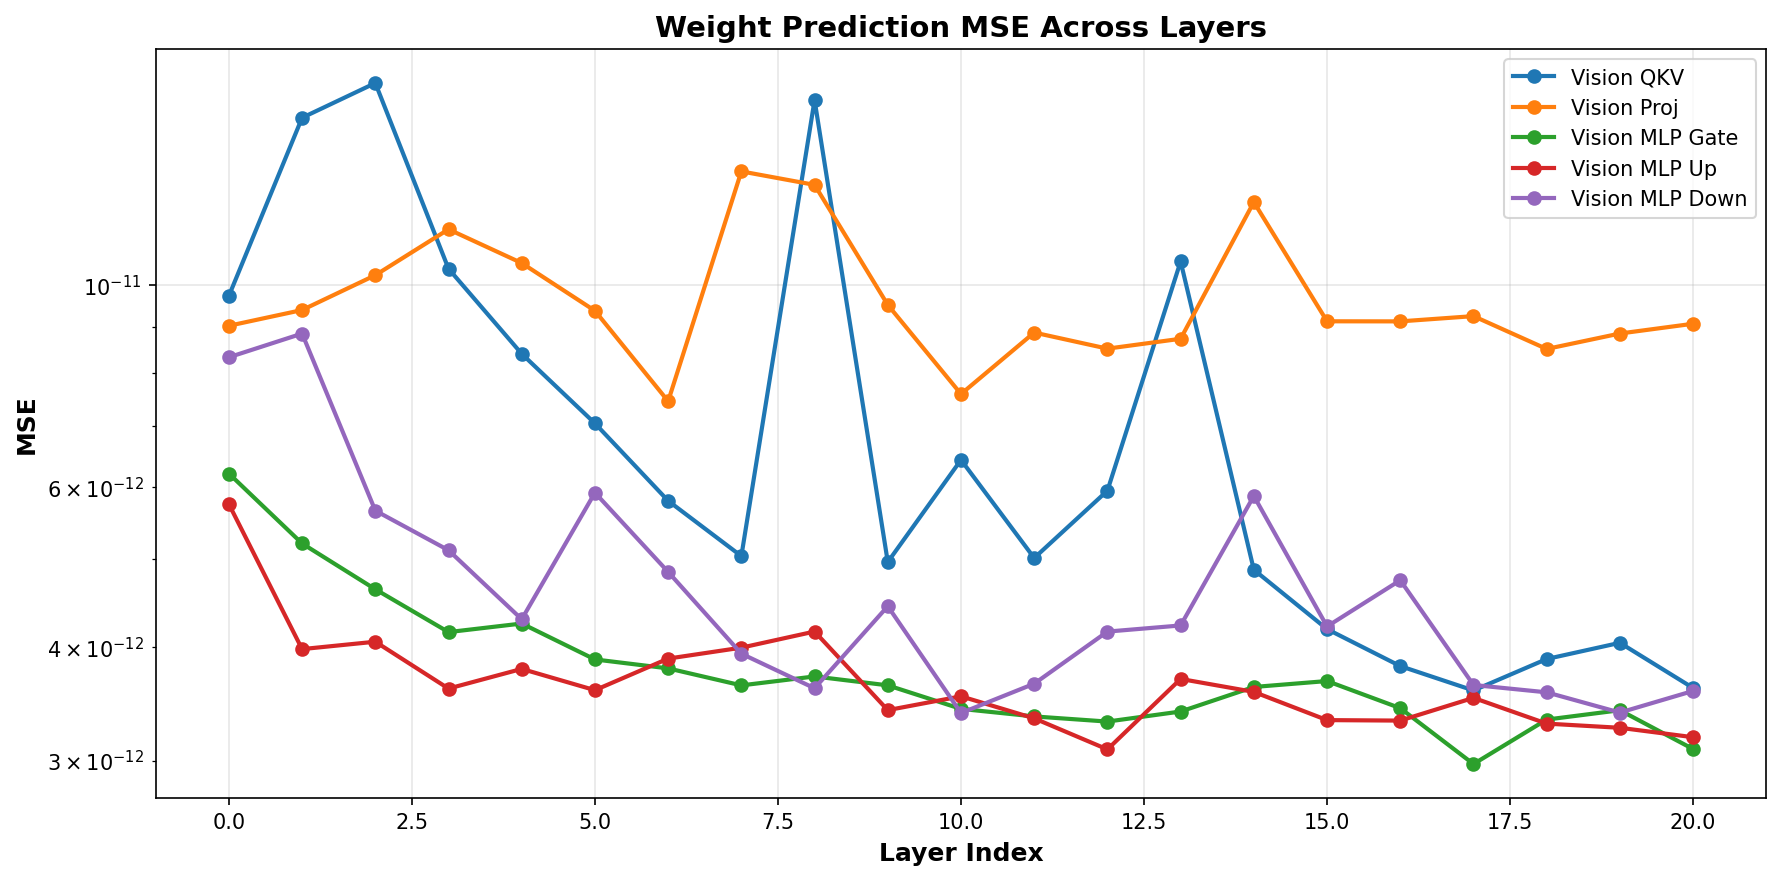
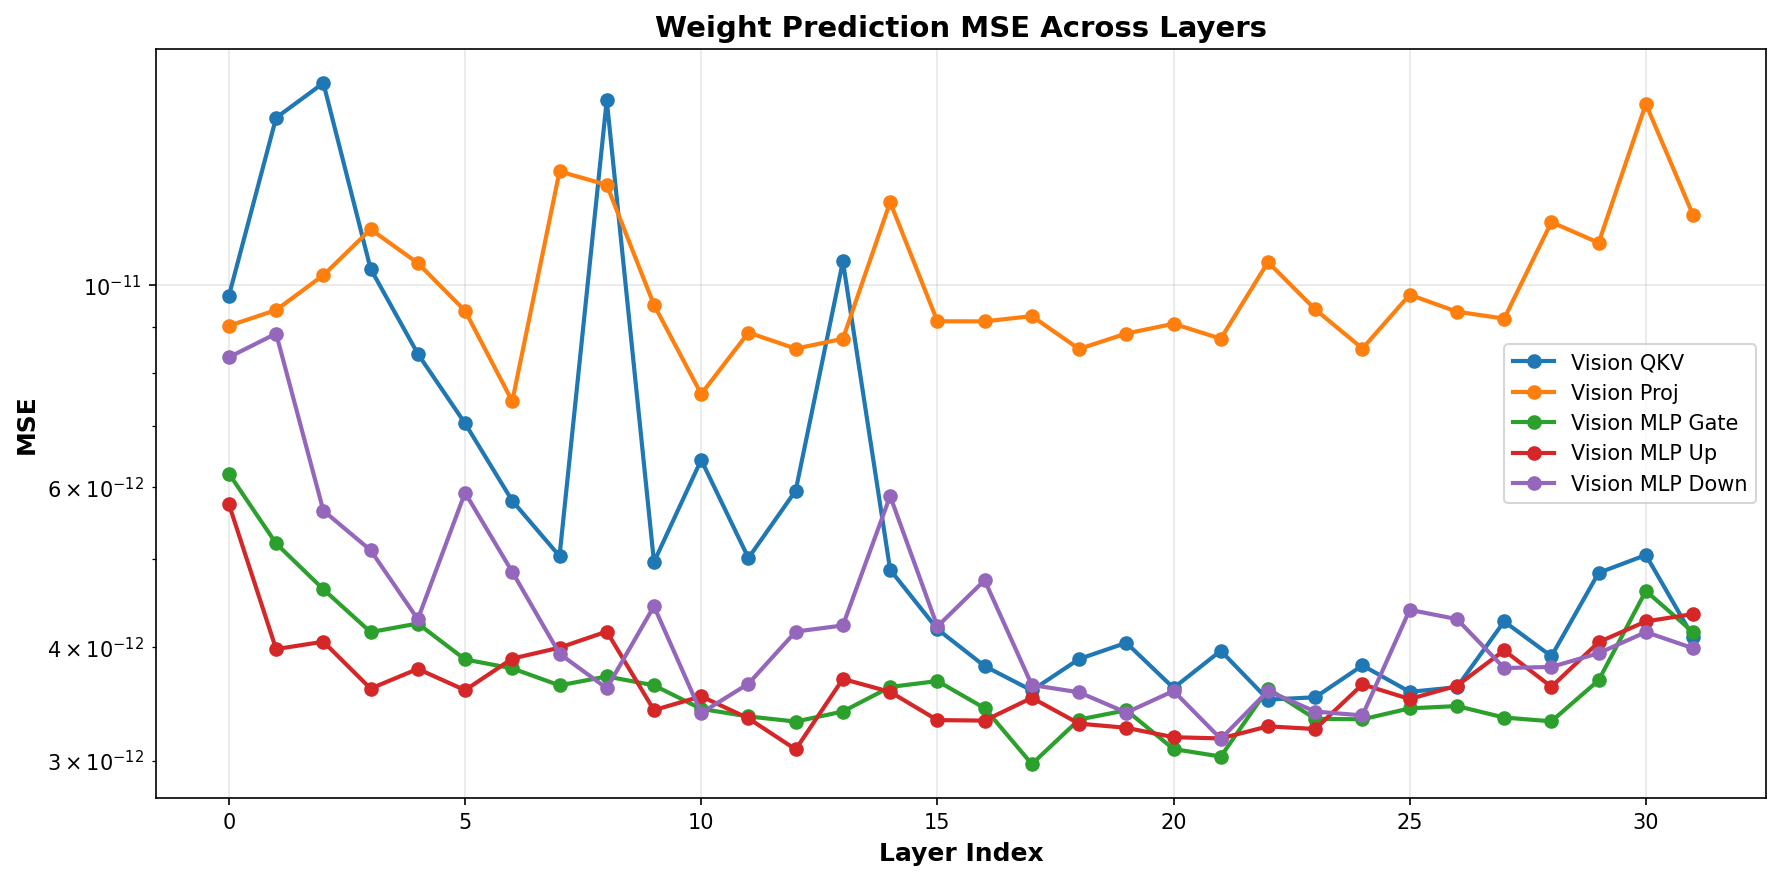
update img

diff --git a/3-svd-rotation/svd_compare_weight_qwenvl.py b/3-svd-rotation/svd_compare_weight_qwenvl.py
@@ -313,8 +313,8 @@ if __name__ == "__main__":
     
     # for vision parts
     layer_start = 0
-    # layer_end = 32
-    layer_end = 21
+    layer_end = 32
+    # layer_end = 21
     
     output_path = "qwenvl_weights_mse_curves_vision.png"
     
@@ -356,7 +356,7 @@ if __name__ == "__main__":
         # 如果需要分析 language 层，取消下面的注释
     ]
     
-    # plot_layer_mse_curves(layer_configs, output_path=output_path)
+    plot_layer_mse_curves(layer_configs, output_path=output_path)
     
     # for language parts
     layer_start = 0
@@ -412,7 +412,7 @@ if __name__ == "__main__":
         },
     ]
     
-    plot_layer_mse_curves(layer_configs, output_path=output_path)
+    # plot_layer_mse_curves(layer_configs, output_path=output_path)
     
     
 
